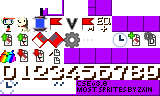
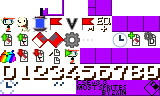
Update 3.3
Add "File" -> "Run Game"

Changed region(s): [[0.4688, 0.8125, 1.0, 1.0], [0.375, 0.5, 0.5, 0.6875]]

diff --git a/src/main/java/com/leo/cse/frontend/ui/SaveEditorPanel.java b/src/main/java/com/leo/cse/frontend/ui/SaveEditorPanel.java
@@ -280,7 +280,6 @@ public class SaveEditorPanel extends JPanel
 	}
 
 	public void addComponents() {
-		boolean plus = ExeData.isPlusMode();
 		menuBars = new ArrayList<>();
 		List<MenuBarItem> mbiFile = new ArrayList<>();
 		mbiFile.add(new MenuBarItem("New Profile", Resources.icons[8], () -> {
@@ -302,7 +301,7 @@ public class SaveEditorPanel extends JPanel
 		mbiFile.add(new MenuBarItem("Change File", Resources.icons[13], () -> {
 			addDialogBox(new PlusSlotDialog(true));
 		}, () -> {
-			return ProfileManager.isLoaded() && plus;
+			return ProfileManager.isLoaded() && ExeData.isPlusMode();
 		}));
 		mbiFile.add(new MenuBarItem("Unload Profile", Resources.icons[11], () -> {
 			if (ProfileManager.isLoaded() && ProfileManager.isModified()) {
@@ -321,6 +320,11 @@ public class SaveEditorPanel extends JPanel
 		}));
 		mbiFile.add(new MenuBarItem("Load Game/Mod", "Ctrl+Shift+O", Resources.icons[1], () -> {
 			loadExe();
+		}));
+		mbiFile.add(new MenuBarItem("Run Game", "Ctrl+R", Resources.icons[14], () -> {
+			runExe();
+		}, () -> {
+			return ExeData.isLoaded();
 		}));
 		mbiFile.add(new MenuBarItem("Unload Game/Mod", Resources.icons[12], () -> {
 			ExeData.unload();
@@ -367,7 +371,8 @@ public class SaveEditorPanel extends JPanel
 			addDialogBox(new NikuEditDialog());
 		}));
 		menuBars.add(new MenuBar("Tools", mbiTools));
-		boolean var = plus && MCI.getSpecial("VarHack"), eqp = plus && MCI.getSpecial("EquipPlusHack");
+		boolean plus = ExeData.isPlusMode(), var = plus && MCI.getSpecial("VarHack"),
+				eqp = plus && MCI.getSpecial("EquipPlusHack");
 		tabs = new EditorPanel[(var ? 6 : 5)];
 		tabs[0] = new EditorPanel(EditorTab.GENERAL, new GeneralPanel());
 		tabs[1] = new EditorPanel(EditorTab.INVENTORY, new InventoryPanel());
@@ -643,6 +648,30 @@ public class SaveEditorPanel extends JPanel
 			}
 		});
 
+	}
+
+	private void runExe() {
+		if (ExeData.isPlusMode()) {
+			String path = System.getenv("programfiles(x86)");
+			if (path == null) {
+				path = System.getenv("programfiles");
+			}
+			try {
+				Runtime.getRuntime().exec(path + "/Steam/Steam.exe -applaunch 200900");
+			} catch (IOException e) {
+				e.printStackTrace();
+				JOptionPane.showMessageDialog(this, "Could not run game!\nThe following exception occured: " + e,
+						"Could not run game", JOptionPane.ERROR_MESSAGE);
+			}
+		} else {
+			try {
+				Runtime.getRuntime().exec(ExeData.getBase().getAbsolutePath());
+			} catch (IOException e) {
+				e.printStackTrace();
+				JOptionPane.showMessageDialog(this, "Could not run game! The following exception occured:\n" + e,
+						"Could not run game", JOptionPane.ERROR_MESSAGE);
+			}
+		}
 	}
 
 	private boolean canSave() {
@@ -1061,6 +1090,9 @@ public class SaveEditorPanel extends JPanel
 					if (ctrl) {
 						ProfileManager.redo();
 					}
+					break;
+				case KeyEvent.VK_R:
+					runExe();
 					break;
 				default:
 					break;

diff --git a/src/main/java/com/leo/cse/frontend/Main.java b/src/main/java/com/leo/cse/frontend/Main.java
@@ -47,7 +47,7 @@ public class Main extends JFrame implements ExeLoadListener, ProfileListener {
 	private static final long serialVersionUID = -5073541927297432013L;
 
 	public static final Dimension WINDOW_SIZE = new Dimension(867, 686);
-	public static final Version VERSION = new Version("3.2");
+	public static final Version VERSION = new Version("3.3");
 	public static final String UPDATE_CHECK_SITE = "https://raw.githubusercontent.com/Leo40Git/CaveSaveEdit/master/.version";
 	public static final String DOWNLOAD_SITE = "https://github.com/Leo40Git/CaveSaveEdit/releases/";
 	public static final Color COLOR_BG = new Color(0, 0, 25);
@@ -154,7 +154,7 @@ public class Main extends JFrame implements ExeLoadListener, ProfileListener {
 		return getActualSize(true);
 	}
 
-	public static void loadProfile(File file) {
+	public static void loadProfile(File file, boolean record) {
 		if (SaveEditorPanel.panel != null)
 			SaveEditorPanel.panel.setLoading(true);
 		window.repaint();
@@ -182,7 +182,8 @@ public class Main extends JFrame implements ExeLoadListener, ProfileListener {
 				return;
 			} finally {
 				System.out.println("loaded profile " + ProfileManager.getLoadedFile());
-				Config.set(Config.KEY_LAST_PROFIE, file.getAbsolutePath());
+				if (record)
+					Config.set(Config.KEY_LAST_PROFIE, file.getAbsolutePath());
 				SwingUtilities.invokeLater(() -> {
 					if (SaveEditorPanel.panel != null)
 						SaveEditorPanel.panel.setLoading(false);
@@ -190,6 +191,10 @@ public class Main extends JFrame implements ExeLoadListener, ProfileListener {
 				});
 			}
 		});
+	}
+	
+	public static void loadProfile(File file) {
+		loadProfile(file, true);
 	}
 
 	public static void setTitle(Main window) {
@@ -462,7 +467,7 @@ public class Main extends JFrame implements ExeLoadListener, ProfileListener {
 			SwingUtilities.invokeLater(() -> {
 				File p = new File(System.getProperty("user.dir") + "/Profile.dat");
 				if (p.exists())
-					loadProfile(p);
+					loadProfile(p, false);
 			});
 		});
 	}

diff --git a/src/main/java/com/leo/cse/frontend/Resources.java b/src/main/java/com/leo/cse/frontend/Resources.java
@@ -62,7 +62,7 @@ public class Resources {
 		editorTabIcons = new BufferedImage[7];
 		for (int i = 0; i < editorTabIcons.length; i++)
 			editorTabIcons[i] = ui.getSubimage(i * 16, 16, 16, 16);
-		icons = new BufferedImage[14];
+		icons = new BufferedImage[15];
 		int tbx = 0, tby = 16;
 		for (int i = 0; i < icons.length; i++) {
 			if (i % 10 == 0) {

diff --git a/src/main/java/com/leo/cse/frontend/ui/components/MapView.java b/src/main/java/com/leo/cse/frontend/ui/components/MapView.java
@@ -403,7 +403,6 @@ public class MapView extends Component implements IDraggable, ProfileListener {
 			return;
 		if (mapInfo.hasMissingAssets())
 			return;
-		System.out.println("MapView.onKey");
 		updateCamCoords();
 		int px = playerPos[0], py = playerPos[1];
 		int amount = 32;
